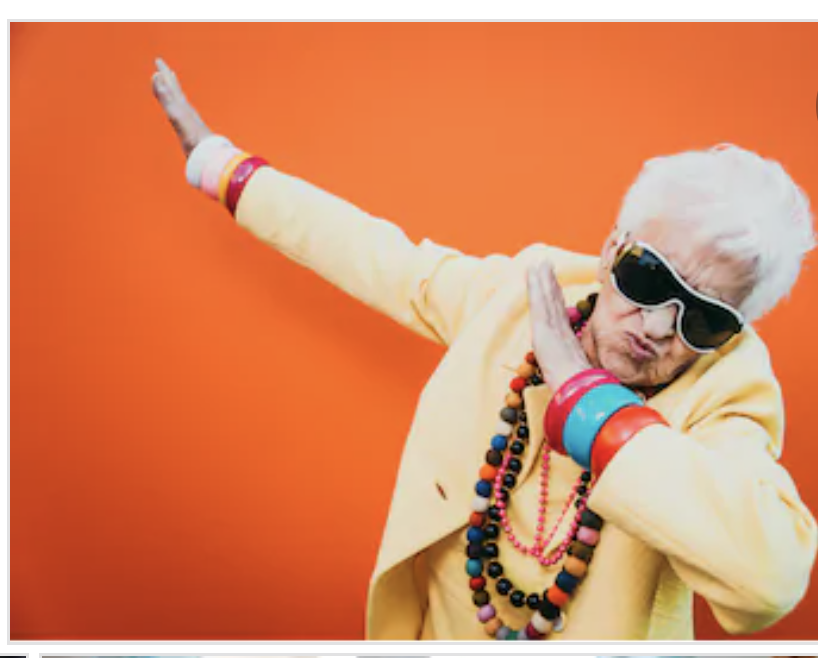
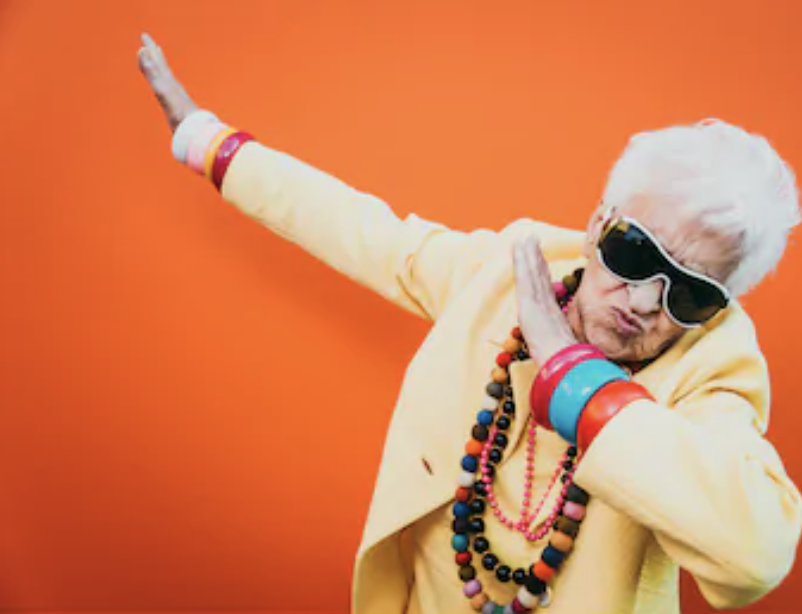
background grandma

diff --git a/styles.css b/styles.css
@@ -4,7 +4,7 @@ h2{
    
 }
 .heading{
-    padding-top:50px;
+    padding-top:400px;
     padding-left: 32px;
 }
 #excuse{
@@ -19,10 +19,11 @@ h2{
     top: 50px;
 }
 body{
-    background-image:url("https://www.stockvault.net/data/2016/05/22/199510/preview16.jpg");
+    background-image: url('./image/grandma.png');
     background-repeat: no-repeat;
-    background-position: x;
+    background-position: center;
     background-size:cover;
+    width: 100vw;
     height:50vh;
     margin-top:600px;
 }
